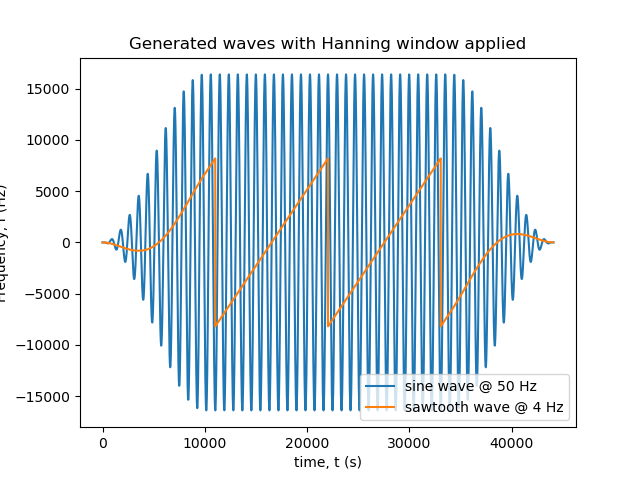
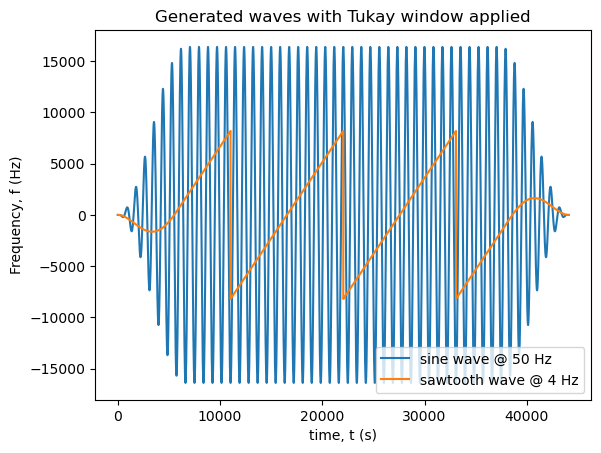
Changed hanning window to tukey window in order to simplify code

diff --git a/generateSignal.py b/generateSignal.py
@@ -18,7 +18,7 @@ class generateSignal(object):
 		self.channelSize= channelSize
 		self.outputRate= outputRate
 		self.maxAmplitude= np.iinfo(np.int16).max
-		self.attackDecayLengh= 5000
+		self.taperCoeff= 0.3
 		
 	def defineSignalParam(self, pitch, volume, duration):
 		#===============================================================
@@ -37,29 +37,21 @@ class generateSignal(object):
 		self.emptyOutputBuffer= np.zeros((self.totalSamples, self.channelSize),\
 										dtype= np.int16)
 		
-	def createHannWindow(self):
+	def createTukeyWindow(self):
 		#===============================================================
-		# Funcion that will compute the left and right side of a hanning 
-		# window
+		# Funcion that will return a tukay window
 		
-		window= np.hanning(2*self.attackDecayLengh)
-		self.windowLeft= window[:self.attackDecayLengh-1]
-		self.windowRight= window[self.attackDecayLengh:]
+		self.window= signal.tukey(self.totalSamples, alpha= self.taperCoeff)
 		
-	def applyHannWindow(self, signalArray):
+	def applyTukeyWindow(self, signalArray):
 		#===============================================================
-		# Apply hann window to any given signal array
+		# Apply tukey window to any given signal array
 		
-		# Define index where the left and right window will be ap[plied
-		leftWindowEnd= self.attackDecayLengh-1
-		rightWindowStart= self.totalSamples-self.attackDecayLengh
+		self.createTukeyWindow()
 		
-		self.createHannWindow()
-		
-		# Apply hann window
-		signalArray[:leftWindowEnd]= signalArray[:leftWindowEnd]* self.windowLeft
-		signalArray[rightWindowStart:self.totalSamples]= signalArray[rightWindowStart:self.totalSamples]* self.windowRight
-		
+		# Apply tikay window
+		signalArray= self.window*signalArray
+
 		return signalArray
 		
 	def fillOutputBuffer(self, signalArray):
@@ -81,7 +73,7 @@ class generateSignal(object):
 		
 		signalArray= self.amplitude*signal.chirp(self.t, f0=self.pitch,\
 						t1= self.totalSamples, f1= 3*self.pitch)
-		signalArray= self.applyHannWindow(signalArray)
+		signalArray= self.applyTukeyWindow(signalArray)
 		outputBuffer= self.fillOutputBuffer(signalArray)
 			
 		return outputBuffer
@@ -91,7 +83,7 @@ class generateSignal(object):
 		# Return sound buffer with square wave
 		
 		signalArray= self.amplitude*signal.sawtooth(2*np.pi*self.pitch*self.t)
-		signalArray= self.applyHannWindow(signalArray)
+		signalArray= self.applyTukeyWindow(signalArray)
 		outputBuffer= self.fillOutputBuffer(signalArray)
 		
 		return outputBuffer
@@ -101,7 +93,7 @@ class generateSignal(object):
 		# Return sound buffer with triangle wave
 		
 		signalArray= self.amplitude*signal.sawtooth(2*np.pi*self.pitch*self.t, 0.5)
-		signalArray= self.applyHannWindow(signalArray)
+		signalArray= self.applyTukeyWindow(signalArray)
 		outputBuffer= self.fillOutputBuffer(signalArray)
 		
 		return outputBuffer
@@ -111,7 +103,7 @@ class generateSignal(object):
 		# Return sound buffer with sawtooth wave
 		
 		signalArray= self.amplitude*signal.sawtooth(2*np.pi*self.pitch*self.t)
-		signalArray= self.applyHannWindow(signalArray)
+		signalArray= self.applyTukeyWindow(signalArray)
 		outputBuffer= self.fillOutputBuffer(signalArray)
 		
 		return outputBuffer	
@@ -123,7 +115,7 @@ class generateSignal(object):
 		noiseMean= 0
 		noiseStdDev= 0.5
 		signalArray= self.amplitude*np.random.normal(noiseMean, noiseStdDev, self.totalSamples)
-		signalArray= self.applyHannWindow(signalArray)
+		signalArray= self.applyTukeyWindow(signalArray)
 		outputBuffer= self.fillOutputBuffer(signalArray)
 			
 		return outputBuffer		

diff --git a/generateSignalTest.py b/generateSignalTest.py
@@ -21,10 +21,12 @@ def main():
 	plt.plot(sine_buffer.T[0][:], label= 'sine wave @ 50 Hz')
 	plt.plot(sawtooth_buffer.T[0][:], label= 'sawtooth wave @ 4 Hz')
 	plt.xlabel('time, t (s)')
-	plt.ylabel('Frequency, f (Hz)')
-	plt.title('Generated waves with Hanning window applied')
+	plt.ylabel('Frequency, f (Hz)', x= 0.5)
+	plt.title('Generated waves with Tukay window applied')
 	plt.legend()
 	plt.show()
+	
+
 
 if __name__== '__main__':
 	main()
